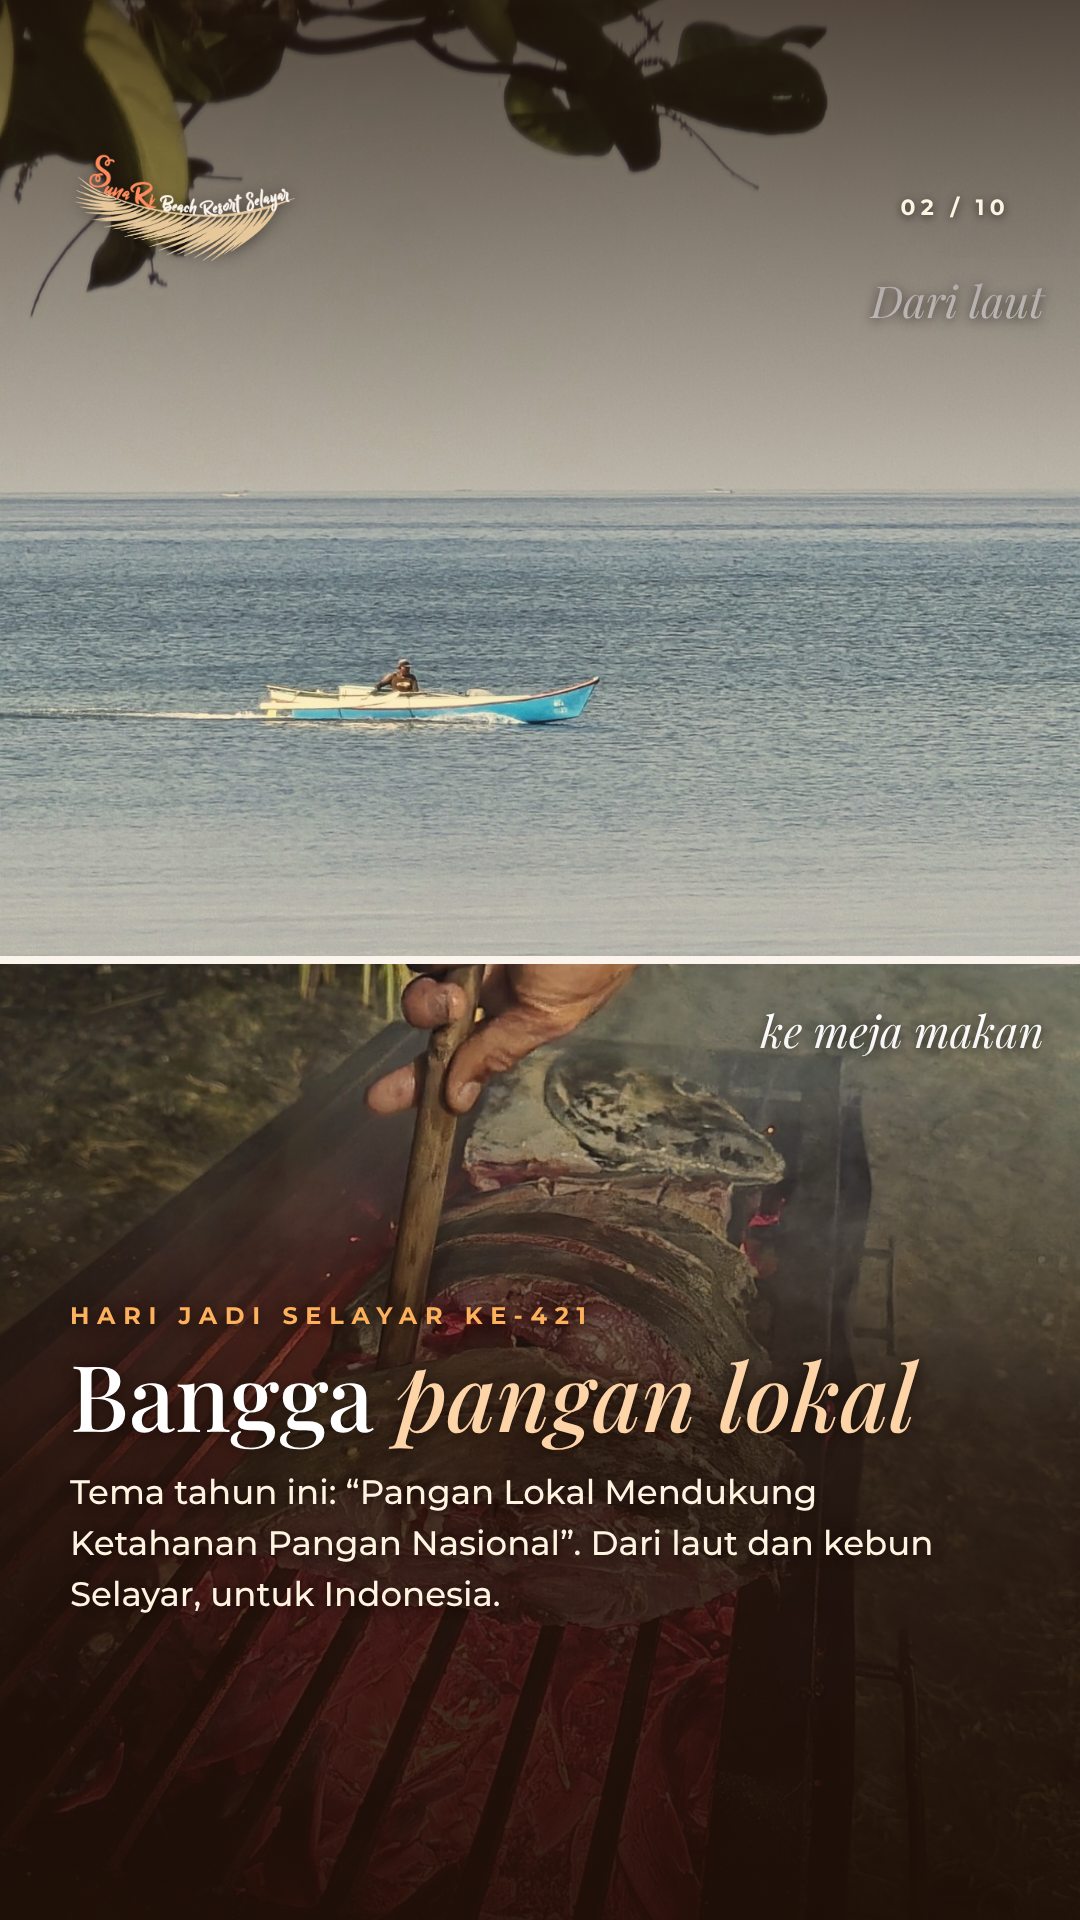
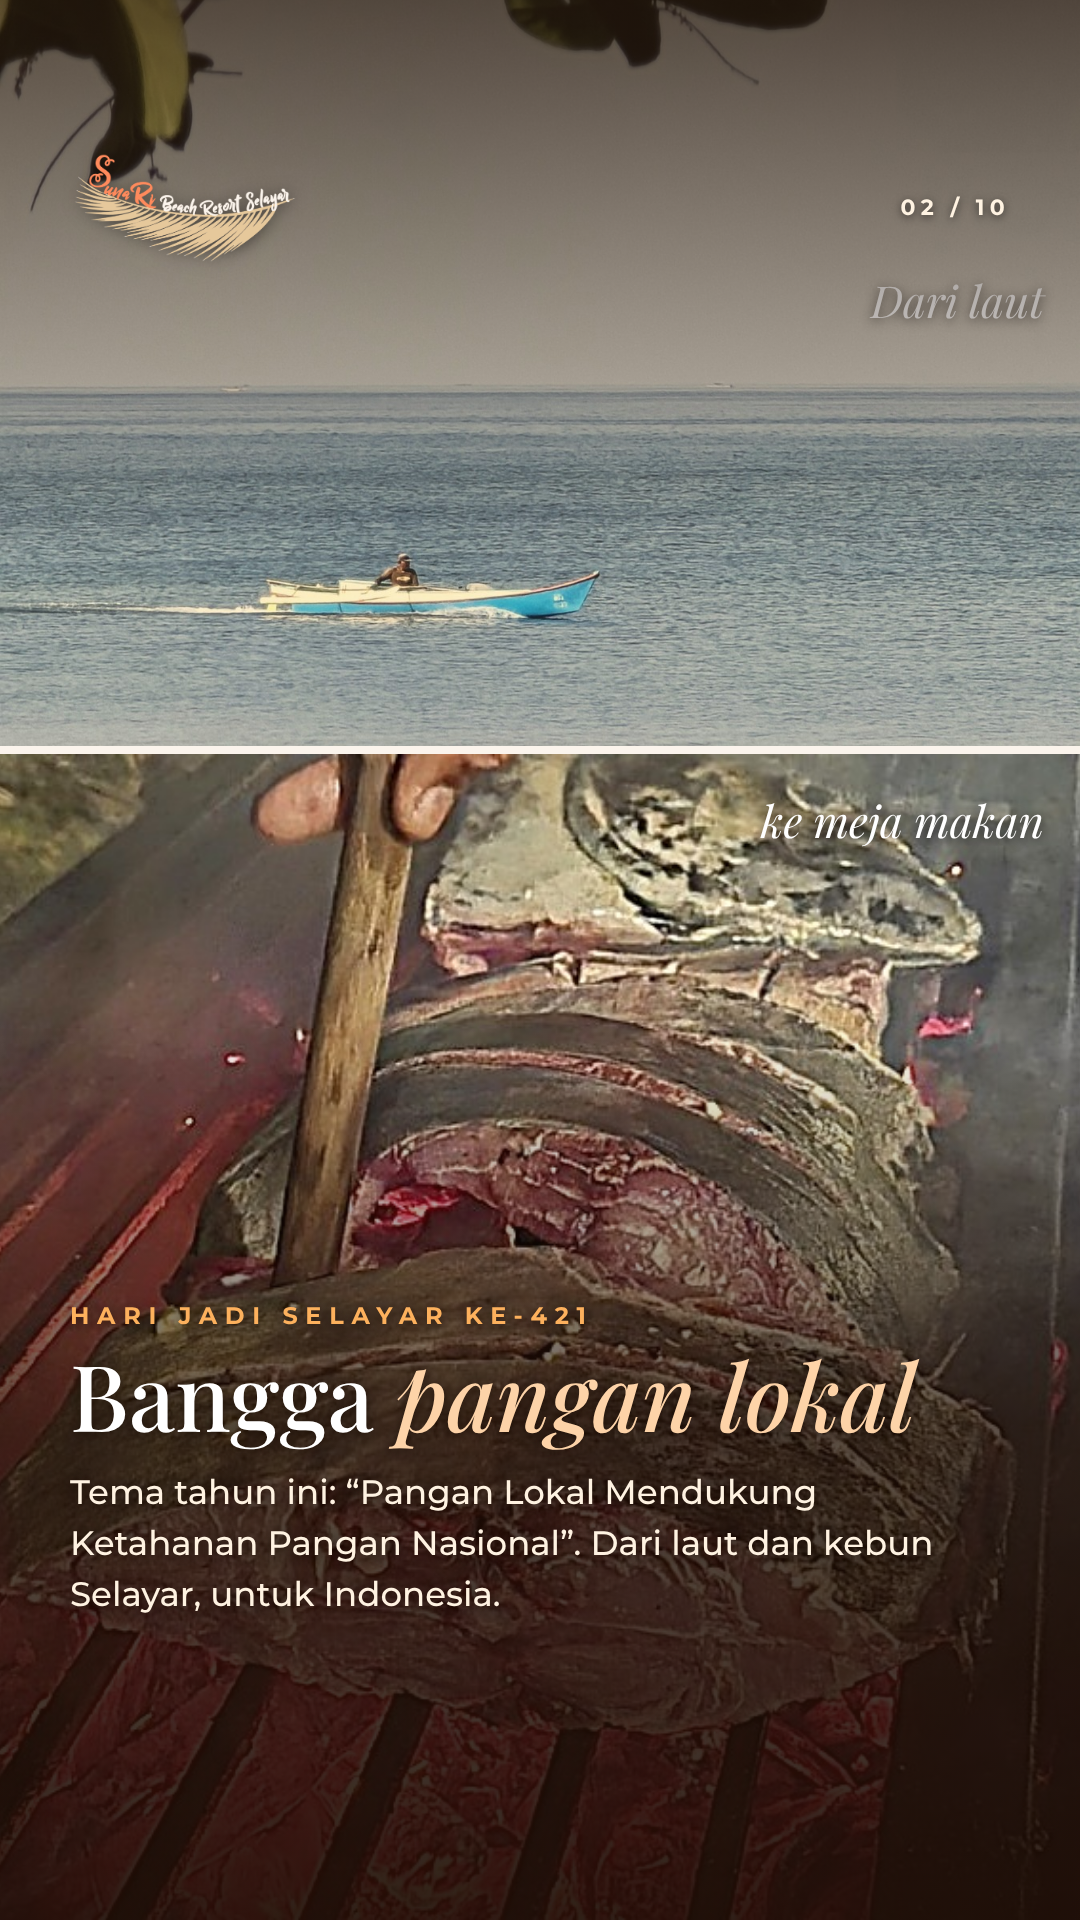
Hari Jadi Selayar slide 2: foto ikan bakar dipotong lebih dekat & diterangkan agar ikan terlihat jelas (feed & story)
Claude-Session: https://claude.ai/code/session_01KeLc5eBGUnchV5ne3wvwHX

diff --git a/social/hari_jadi_story10.html b/social/hari_jadi_story10.html
@@ -24,7 +24,7 @@
     <div class="ttl" style="font-size:86px;margin-top:26px">Selamat Hari Jadi</div>
     <div class="big">ke-421</div>
     <div class="ttl" style="font-size:56px;margin-top:10px">Kabupaten Kepulauan Selayar</div>
-    <div class="tag" style="margin-top:34px">#HariJadiSelayar421</div></div></div><div class="s" id="story-hari-jadi-02"><div class="split" style="grid-template-rows:1fr 1fr"><div style=""><img src="hari-jadi-selayar-feed/foto/pantai__02-perahu-nelayan-biru.jpg" style="object-position:50% 50%" alt=""><div class="cap" style="top:270px;">Dari laut</div></div><div style=""><img src="hari-jadi-selayar-feed/foto/resto__06-bakar-ikan-tuna-bara.jpg" style="object-position:50% 60%" alt=""><div class="cap" style="">ke meja makan</div></div></div><div class="vt"></div><div class="vb"></div><div class="top"><img src="../assets/logo-sunari-color-dark.png" alt=""><div class="n">02 / 10</div></div>
+    <div class="tag" style="margin-top:34px">#HariJadiSelayar421</div></div></div><div class="s" id="story-hari-jadi-02"><div class="split" style="grid-template-rows:0.78fr 1.22fr"><div style=""><img src="hari-jadi-selayar-feed/foto/pantai__02-perahu-nelayan-biru.jpg" style="object-position:50% 50%" alt=""><div class="cap" style="top:270px;">Dari laut</div></div><div style=""><img src="hari-jadi-selayar-feed/foto/resto__06-bakar-ikan-tuna-dekat.jpg" style="object-position:40% 8%" alt=""><div class="cap" style="">ke meja makan</div></div></div><div class="vt"></div><div class="vb"></div><div class="top"><img src="../assets/logo-sunari-color-dark.png" alt=""><div class="n">02 / 10</div></div>
   <div class="card"><div class="kick">Hari Jadi Selayar ke-421</div><div class="ttl">Bangga <em>pangan lokal</em></div><div class="sub">Tema tahun ini: “Pangan Lokal Mendukung Ketahanan Pangan Nasional”. Dari laut dan kebun Selayar, untuk Indonesia.</div></div></div><div class="s" id="story-hari-jadi-03"><img class="bg" src="hari-jadi-selayar-feed/foto/bahuluang__21-laut-toska-dari-kapal.jpg" style="object-position:45% 60%" alt=""><div class="vt"></div><div class="vb"></div><div class="top"><img src="../assets/logo-sunari-color-dark.png" alt=""><div class="n">03 / 10</div></div>
   <div class="card"><div class="kick">Hari Jadi Selayar ke-421</div><div class="ttl">Laut yang <em>memberi</em></div><div class="sub">Air toska, pasir putih, dan karang yang terjaga. Laut Selayar adalah rumah, sumber kehidupan, dan kebanggaan kita.</div></div></div><div class="s" id="story-hari-jadi-04"><img class="bg" src="hari-jadi-selayar-feed/foto/bahuluang__29-snorkeling-masker-penuh.jpg" style="object-position:50% 45%" alt=""><div class="vt"></div><div class="vb"></div><div class="top"><img src="../assets/logo-sunari-color-dark.png" alt=""><div class="n">04 / 10</div></div>
   <div class="card"><div class="kick">Hari Jadi Selayar ke-421</div><div class="ttl">Taman <em>bawah laut</em></div><div class="sub">Karang dan ikan warna-warni di perairan Selayar. Jaga bersama, wariskan untuk anak cucu.</div></div></div><div class="s" id="story-hari-jadi-05"><div class="split" style="grid-template-columns:1fr 1fr;grid-template-rows:1fr 1fr"><div style=""><img src="hari-jadi-selayar-feed/foto/bahuluang__51-pantai-barat-teluk-pasir-putih.jpg" style="object-position:50% 50%" alt=""><div class="cap" style="top:270px;">Bahuluang</div></div><div style=""><img src="hari-jadi-selayar-feed/foto/pantai__03-pulau-di-seberang.jpg" style="object-position:50% 50%" alt=""><div class="cap" style="top:270px;">Gusung</div></div><div style="grid-column:1/3;"><img src="hari-jadi-selayar-feed/foto/polassi-tambolongan__07-punggung-bukit-nane-dan-teluk.jpg" style="object-position:50% 50%" alt=""><div class="cap" style="">Polassi</div></div></div><div class="vt"></div><div class="vb"></div><div class="top"><img src="../assets/logo-sunari-color-dark.png" alt=""><div class="n">05 / 10</div></div>

diff --git a/social/hari_jadi_feed.html b/social/hari_jadi_feed.html
@@ -38,7 +38,7 @@ body{background:#bbb;font-family:Montserrat,sans-serif}
   <div class="fk">29 November 1605 — 2026</div><div class="fh" style="font-size:96px">Selamat<br>Hari Jadi</div>
   <div class="big" style="position:absolute;left:76px;top:390px">ke-421</div>
   <div class="fs" style="top:620px">Kabupaten Kepulauan Selayar</div>
-  <div class="fg">Geser &nbsp;→</div><img class="fl" src="../assets/logo-sunari-color-dark.png" alt=""></div><div class="t" id="hari-jadi-02"><div class="ph grid" style="grid-template-columns:1fr 1fr;grid-template-rows:1fr"><div style=""><img src="hari-jadi-selayar-feed/foto/pantai__02-perahu-nelayan-biru.jpg" style="object-position:40% 55%" alt=""><div class="cap">Dari laut</div></div><div style=""><img src="hari-jadi-selayar-feed/foto/resto__06-bakar-ikan-tuna-bara.jpg" style="object-position:50% 62%" alt=""><div class="cap">ke meja makan</div></div><img class="lg" src="../assets/logo-sunari-color-dark.png" style="position:absolute" alt=""></div>
+  <div class="fg">Geser &nbsp;→</div><img class="fl" src="../assets/logo-sunari-color-dark.png" alt=""></div><div class="t" id="hari-jadi-02"><div class="ph grid" style="grid-template-columns:1fr 1fr;grid-template-rows:1fr"><div style=""><img src="hari-jadi-selayar-feed/foto/pantai__02-perahu-nelayan-biru.jpg" style="object-position:40% 55%" alt=""><div class="cap">Dari laut</div></div><div style=""><img src="hari-jadi-selayar-feed/foto/resto__06-bakar-ikan-tuna-dekat.jpg" style="object-position:45% 50%" alt=""><div class="cap">ke meja makan</div></div><img class="lg" src="../assets/logo-sunari-color-dark.png" style="position:absolute" alt=""></div>
   <div class="kick">Hari Jadi Selayar ke-421</div><div class="ttl emb">Bangga <em>pangan lokal</em></div><div class="sub">Tema tahun ini: “Pangan Lokal Mendukung Ketahanan Pangan Nasional”. Dari laut dan kebun Selayar, untuk Indonesia.</div>
   <div class="bt"><span>SunaRi · Selayar</span><span class="h">#HariJadiSelayar421</span><span>02 / 10</span></div></div><div class="t" id="hari-jadi-03"><div class="ph"><img src="hari-jadi-selayar-feed/foto/bahuluang__21-laut-toska-dari-kapal.jpg" style="object-position:50% 70%" alt=""><img class="lg" src="../assets/logo-sunari-color-dark.png" alt=""></div>
   <div class="kick">Hari Jadi Selayar ke-421</div><div class="ttl emb">Laut yang <em>memberi</em></div><div class="sub">Air toska, pasir putih, dan karang yang terjaga. Laut Selayar adalah rumah, sumber kehidupan, dan kebanggaan kita.</div>

diff --git a/social/build_hari_jadi_story10.py b/social/build_hari_jadi_story10.py
@@ -9,7 +9,7 @@ LOGO = "../assets/logo-sunari-color.png"; LOGO_D = "../assets/logo-sunari-color-
 src = (H / "build_hari_jadi_feed.py").read_text()
 SL = eval(re.search(r"^SL = (\[.*?^\])", src, re.S | re.M).group(1))
 # posisi foto untuk format tegak 9:16
-POS = {"resto__06-bakar-ikan-tuna-bara.jpg": "50% 60%", "bahuluang__21-laut-toska-dari-kapal.jpg": "45% 60%", "bahuluang__12-berjalan-di-pasir-timbul.jpg": "50% 50%",
+POS = {"resto__06-bakar-ikan-tuna-dekat.jpg": "40% 8%", "bahuluang__21-laut-toska-dari-kapal.jpg": "45% 60%", "bahuluang__12-berjalan-di-pasir-timbul.jpg": "50% 50%",
        "senja__86-matahari-merah-dua-perahu.jpg": "50% 50%", "malam__30-ayunan-kelapa-bintang.jpg": "50% 50%",
        "bahuluang__47-dalam-gua-lipang-stalaktit-rombongan.jpg": "50% 45%", "bahuluang__29-snorkeling-masker-penuh.jpg": "50% 45%"}
 FONTS = '<link href="https://fonts.googleapis.com/css2?family=Playfair+Display:ital,wght@0,400;0,500;1,400;1,500&family=Montserrat:wght@500;600;700&display=swap" rel="stylesheet">'
@@ -47,7 +47,7 @@ T.append(f'''<div class="s" id="story-hari-jadi-01"><img class="bg" src="{P}senj
     <div class="tag" style="margin-top:34px">#HariJadiSelayar421</div></div></div>''')
 for k, (img, pos, t, sub) in enumerate(SL, 2):
     if isinstance(img, list):
-        grid = "grid-template-rows:1fr 1fr" if len(img) == 2 else "grid-template-columns:1fr 1fr;grid-template-rows:1fr 1fr"
+        grid = "grid-template-rows:0.78fr 1.22fr" if len(img) == 2 else "grid-template-columns:1fr 1fr;grid-template-rows:1fr 1fr"
         def cell(i, a, c):
             span = "grid-column:1/3;" if len(img) == 3 and i == 2 else ""
             capst = "top:270px;" if i == 0 or (len(img) == 3 and i == 1) else ""

diff --git a/social/build_hari_jadi_feed.py b/social/build_hari_jadi_feed.py
@@ -21,7 +21,7 @@ T.append(f'''<div class="t fc" id="hari-jadi-01"><img class="bgf" src="{P}senja_
   <div class="fs" style="top:620px">Kabupaten Kepulauan Selayar</div>
   <div class="fg">Geser &nbsp;→</div><img class="fl" src="{LOGO_D}" alt=""></div>''')
 SL = [
-  ([(P + "pantai__02-perahu-nelayan-biru.jpg", "40% 55%", "Dari laut"), (P + "resto__06-bakar-ikan-tuna-bara.jpg", "50% 62%", "ke meja makan")], "", 'Bangga <em>pangan lokal</em>',
+  ([(P + "pantai__02-perahu-nelayan-biru.jpg", "40% 55%", "Dari laut"), (P + "resto__06-bakar-ikan-tuna-dekat.jpg", "45% 50%", "ke meja makan")], "", 'Bangga <em>pangan lokal</em>',
   'Tema tahun ini: “Pangan Lokal Mendukung Ketahanan Pangan Nasional”. Dari laut dan kebun Selayar, untuk Indonesia.'),
  (P + "bahuluang__21-laut-toska-dari-kapal.jpg", "50% 70%", 'Laut yang <em>memberi</em>',
   'Air toska, pasir putih, dan karang yang terjaga. Laut Selayar adalah rumah, sumber kehidupan, dan kebanggaan kita.'),
